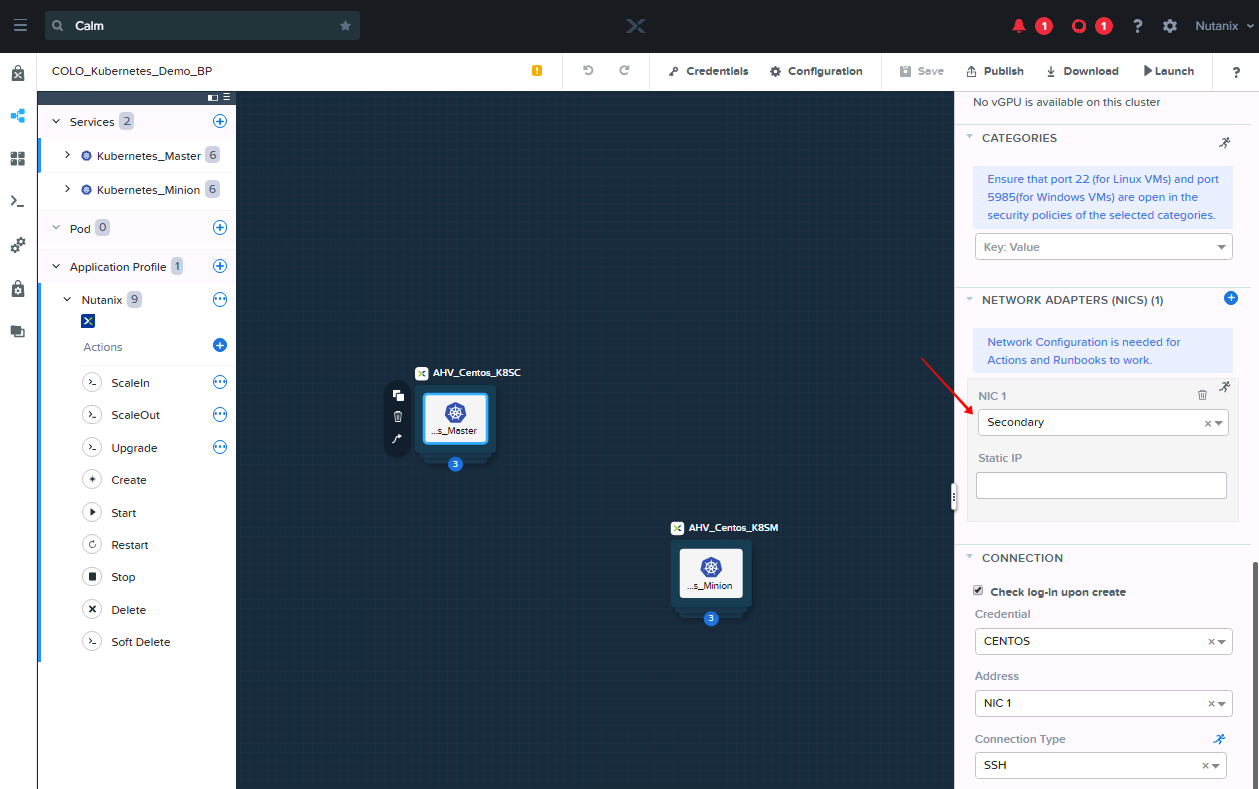
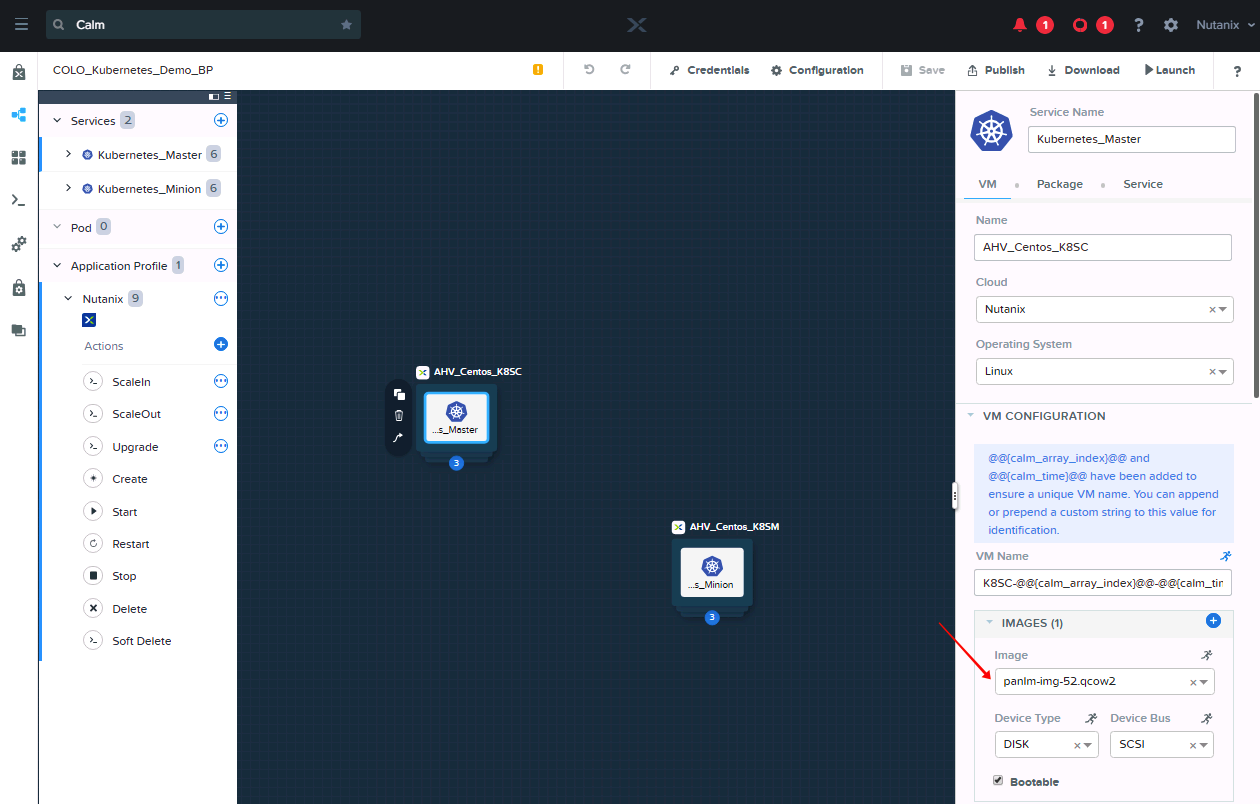
drill

diff --git a/kubernetes/podinbp.rst b/kubernetes/podinbp.rst
@@ -14,39 +14,59 @@ Enable Container in blueprint . (about 10 mins)
 Add Kubernetes as Provider
 ++++++++++++++++++++++++++
 
-- Open Prism Central
+- Use **firefox** to open open Prism Central URL
+    - Open https://10.132.129.39:9440
+    - Username: **nutanix**
+    - Password: **nutanix/4u**
 
-    - open https://10.132.129.39:9440
-
-        username: **nutanix**
-
-        password: **nutanix/4u**
-
+- Get credential from your current kubernetes cluster
+    - Using putty to connect the first controller (**K8SC-0-XXX**)
+    - We will use the private key saved in putty to login
+    - Use username **centos**
+    - Client Certificate: ``cat ~/CA/admin.pem``
+    - Client Key: ``cat ~/CA/admin-key.pem``
 
 - Click **Setting** icon, add Kubernetes Cluster's Credentials
 
     .. figure:: images/pod1.png
 
+    - Name: **your kubernetes cluster**
     - Type: Kubernetes
-    - Server IP: controller0 ip
+    - Server IP: the first controller ip (**K8SC-0-XXX**)
     - Port: 6443
     - Auth Type: Client Certificate
-    - Client Certificate: 
-        - login to your controller0 and ``cat ~/CA/admin.pem``
-    - Client Key:
-        - login to your controller0 and ``cat ~/CA/admin-key.pem``
+    - Client Certificate:  ``cat ~/CA/admin.pem``
+    - Client Key: ``cat ~/CA/admin-key.pem``
     - Click **Save** and **Verify**
 
-- Click **Projects** icon, click your project name
+- Click **Projects** icon, and create a new project for yourself
 
     .. figure:: images/pod2.png
 
-    - ensure you have select **Local and Cloud resources**, and choose the kubernetes proider name
+    - Project Name: **your project name**
+    - Users, Groups and Roles: add user to your project
+
+        .. list-table::
+            :widths: 30 40
+            :header-rows: 1 
+
+            *   - Username
+                - Role
+            *   - SSP Admins
+                - Project Admin
+
+    - Infrastructure: **Local and Cloud resources**
+    - AHV Cluster: **AHV-2**
+    - Network: **Secondary**
+    - Kubernetes: **your kubernetes cluster**
+    - Save all your settings
+
 
 Create Blueprint for POD
 ++++++++++++++++++++++++
 
 - Click **Blueprints** icon, choose **Multi VM/Pod Blueprint** to create a new blueprint
+- Put the blueprint in **your project**
 
     .. figure:: images/pod3.png
 
@@ -57,9 +77,9 @@ Create Blueprint for POD
         .. figure:: images/pod5.png
             :width: 50 %
 
-        - Account: kubernetes
-        - Namespace: default
-        - Replicas: 2
+        - Account: **your kubernetes cluster**
+        - Namespace: **default**
+        - (Option) Replicas: 2
         - SELECTOR: app:myapp
 
 
@@ -74,7 +94,7 @@ Create Blueprint for POD
             :width: 50 %
 
         - Image: nginx
-        - (Option)Image Pull Policy: IfNotPresent
+        - (Option) Image Pull Policy: IfNotPresent
 
     - In **Service** tab
 
@@ -85,11 +105,13 @@ Create Blueprint for POD
             :width: 50 %
 
         - Service Type: NodePort
-        - Port: 8888
-        - Target Port: 8888
+        - (Option) Port: 8888
+        - (Option) Target Port: 8888
         - SELECTOR: app:myapp
 
 - Click **Save** and **Launch** your blueprint
+
+
 
 Check POD is running
 ++++++++++++++++++++

diff --git a/kubernetes/importk8s.rst b/kubernetes/importk8s.rst
@@ -18,6 +18,11 @@ Import Blueprint
 
 - Please download :download:`HERE <./COLO_kubernetes_cluster_BP.json>`
 
+- Use **firefox** to open open Prism Central URL
+    - open https://10.132.129.39:9440
+    - username: **nutanix**
+    - password: **nutanix/4u**
+
 - Upload blueprint
 
     .. figure:: images/imp1.png
@@ -30,21 +35,45 @@ Import Blueprint
 Customize Blueprint
 +++++++++++++++++++
 
-- change credentials for this blueprint
-    - using your private key
+- Using your private key as credentials for this blueprint
 
     .. figure:: images/imp3.png
 
-- change public key
+- Using your public key
 
     .. figure:: images/imp4.png
 
-- change image for each service. (using **panlm-img-xx**)
+- Ensure cluster information is correct
 
     .. figure:: images/imp5.png
 
-- change network interface for each service (using **Secondary**)
+    .. list-table::
+        :widths: 30 40
+        :header-rows: 1 
+
+        *   - Name
+            - Value
+        *   - PE_CLUSTER_IP
+            - ``10.132.129.37``
+        *   - PE_DATA_SERVICE_IP
+            - ``10.132.129.38``
+        *   - PE_USERNAME
+            - ``nutanix``
+        *   - PE_PASSWORD
+            - ``nutanix/4u``
+        *   - PE_CONTAINER_NAME
+            - ``SelfServiceContainer``
+
+- Change image for each service. (using **panlm-img-xx**)
 
     .. figure:: images/imp6.png
+
+- Change network interface for each service (using **Secondary**)
+
+    .. figure:: images/imp7.png
+
+- Don't forget to save your blueprint
+
+
 
 

diff --git a/kubernetes/kubernetes.rst b/kubernetes/kubernetes.rst
@@ -14,13 +14,10 @@ create kubernetes cluster, 3 cotroller node and 3 work node ( about 5 mins )
 Create Kubernetes Cluster
 +++++++++++++++++++++++++
 
-- Open Prism Central
-
-  open https://10.132.129.39:9440
-
-    username: **nutanix**
-
-    password: **nutanix/4u**
+- Use **firefox** to open open Prism Central URL
+    - open https://10.132.129.39:9440
+    - username: **nutanix**
+    - password: **nutanix/4u**
 
 - Navigate to Calm UI, and find blueprint **COLO_Kubernetes_cluster_BP** in blueprint page
 
@@ -60,11 +57,11 @@ Create Kubernetes Cluster
 
     .. figure:: images/kub5.png
 
-- find the first controller node and **open terminal**
+- Find the first controller node **K8SC-0-XXX** and **open terminal**
 
     .. figure:: images/kub7.png
 
-- run command to verify, ``kubectl get node -o wide -n kube-system``
+- Run command to verify, ``kubectl get pod -o wide -n kube-system``
 
     .. figure:: images/kub8.png
 
@@ -72,7 +69,8 @@ Create Kubernetes Cluster
 Access Kubernetes Dashboard
 +++++++++++++++++++++++++++
 
-- open browser, and access ``https://<any_ip_address_in_your_cluster>:30443/``, it is the default **dashboard** of kubernetes. Click **Skip** to skip certifications (using **firefox** if your chrome has some issue)
+- open **firefox**, and access ``https://<any_ip_address_in_your_cluster>:30443/``, it is the default **dashboard** of kubernetes. 
+Click **Skip** to skip certifications (if you use **chrome**, maybe will get some issues.)
 
     .. figure:: images/kub9.png
 
